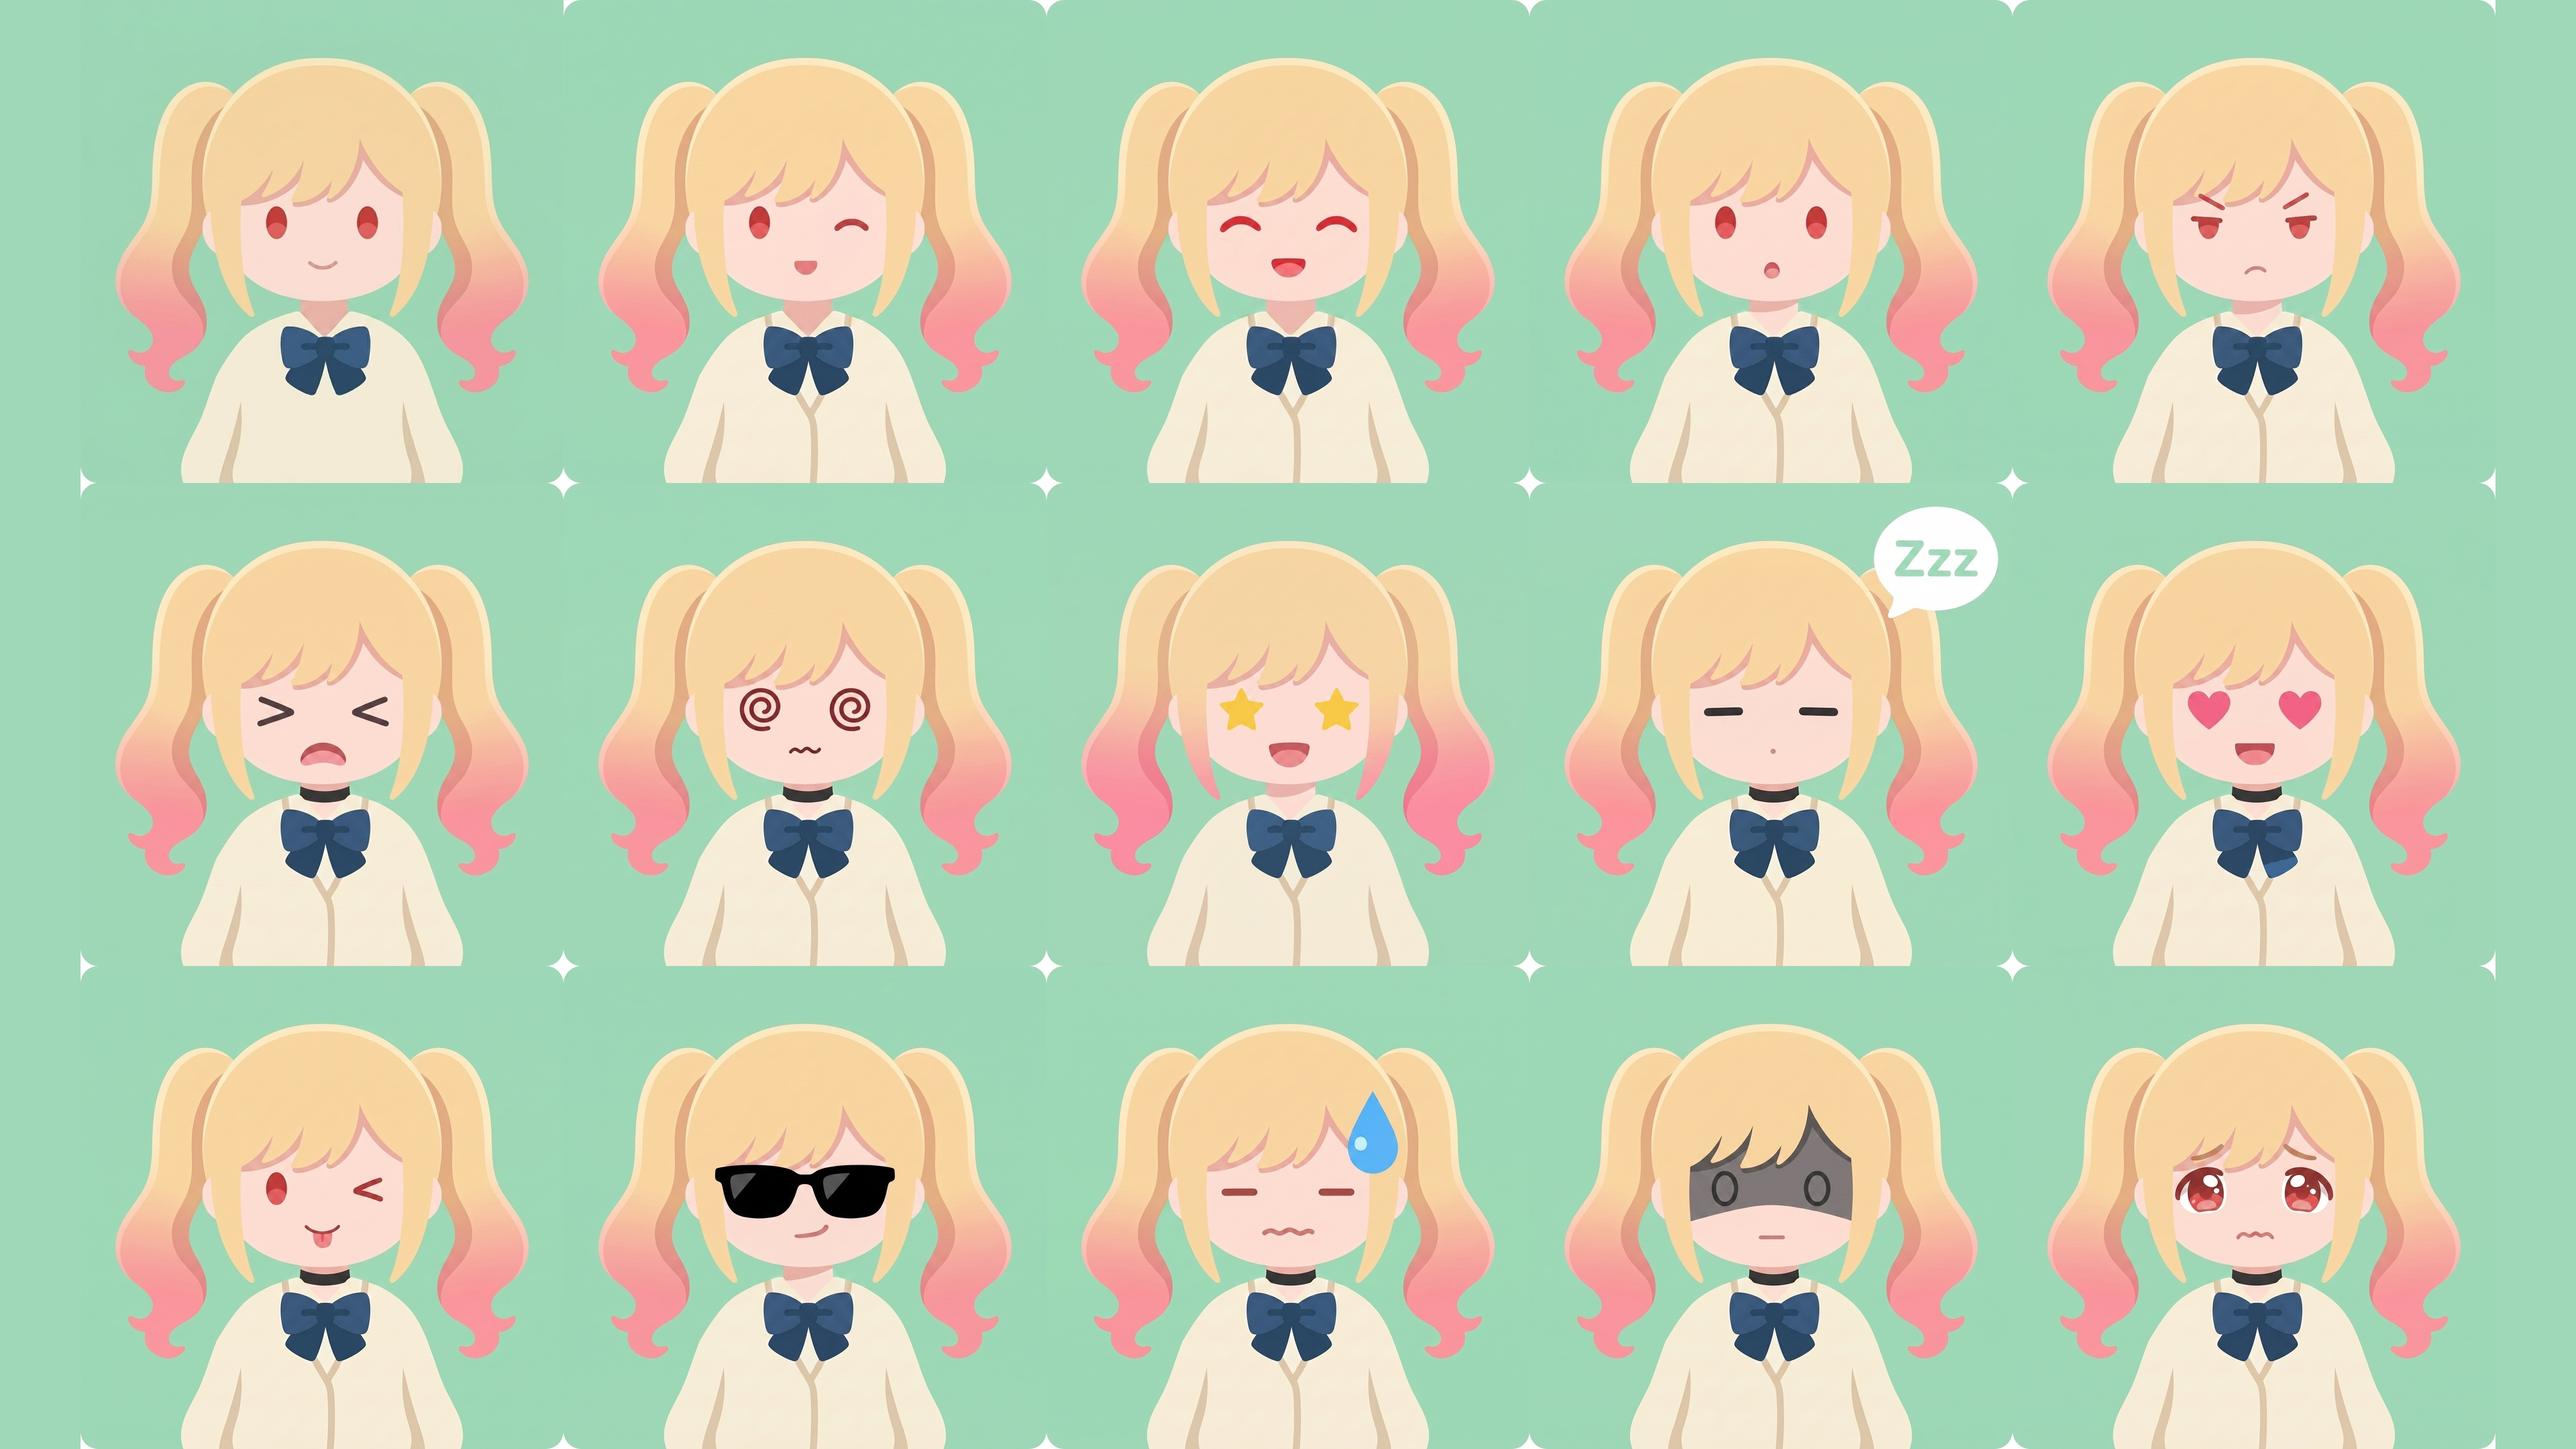
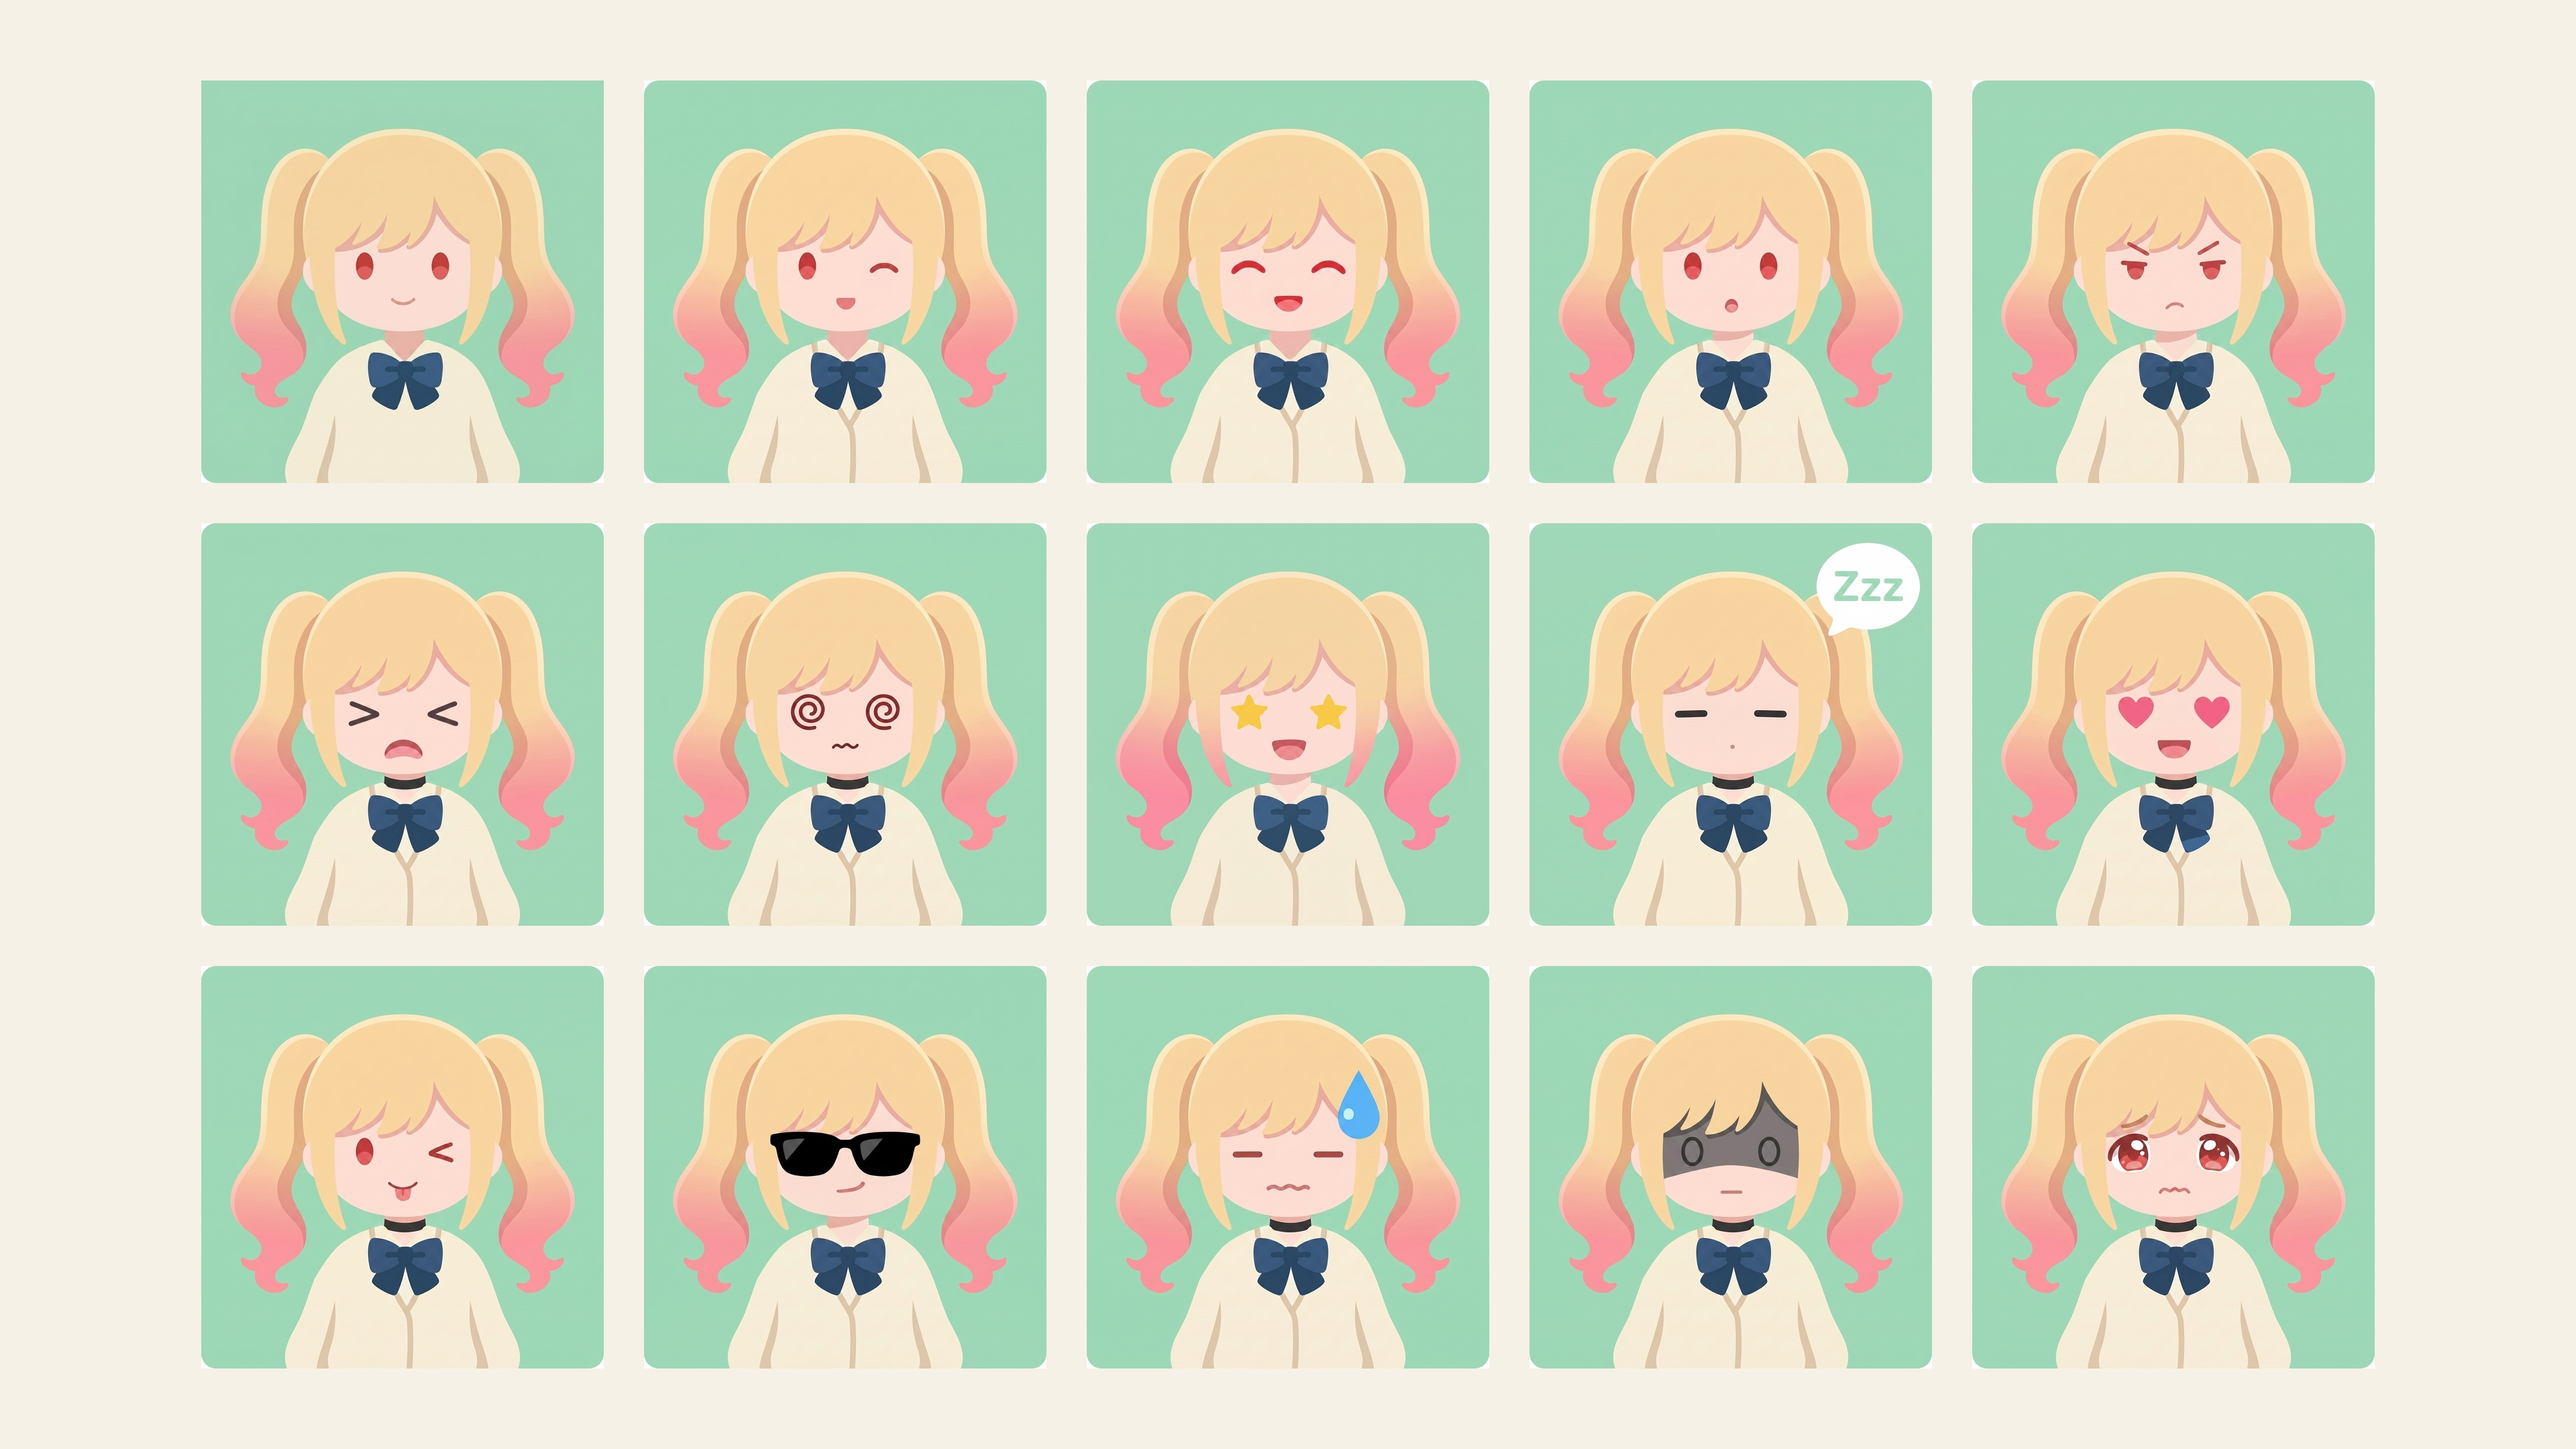
fix: add grid padding and brand cream background to wallpaper

diff --git a/generate_wallpaper.py b/generate_wallpaper.py
@@ -3,58 +3,59 @@ from PIL import Image
 
 def generate_wallpaper():
     assets_dir = "assets"
-    # 我们要拼接的 15 张表情图的文件名列表（按顺序）
     images_list = [
         "10_Base_Smile.jpg", "11_Base_Wink.jpg", "12_Base_Happy.jpg", "13_Base_Surprised.jpg", "14_Base_Angry.jpg",
         "15_Base_Crying.jpg", "16_Base_Dizzy.jpg", "17_Base_Starry.jpg", "18_Base_Sleepy.jpg", "19_Base_Love.jpg",
         "20_Base_Blep.jpg", "21_Base_Cool.jpg", "22_Base_Sweating.jpg", "23_Base_Shadow.jpg", "24_Base_Pleading.jpg"
     ]
     
-    # 检查图片是否都存在
     for img_name in images_list:
         img_path = os.path.join(assets_dir, img_name)
         if not os.path.exists(img_path):
             print(f"Error: {img_path} not found!")
             return
 
-    # 读取所有图片
     images = [Image.open(os.path.join(assets_dir, img_name)) for img_name in images_list]
     
-    # 获取原始单张图片的尺寸（假设全都是正方形且一样大）
-    base_w, base_h = images[0].size
-    
-    # 我们设定最终壁纸的高度为 4K 标准 (2160p)
+    # 设定最终壁纸的高度为 4K 标准
+    target_width = 3840
     target_height = 2160
-    target_width = 3840 # 16:9
     
-    # 5x3 网格，所以单张图片的尺寸应该是:
-    tile_size = target_height // 3 # 720
+    # 设定网格的间距 (Gap)
+    gap = 60
     
-    # 调整所有图片的尺寸
+    # 计算图片大小：(总高度 - 上下留白 - 2个垂直间距) / 3
+    # 假设上下留白 margin_y = 120
+    margin_y = 120
+    tile_size = (target_height - (2 * margin_y) - (2 * gap)) // 3 # (2160 - 240 - 120) // 3 = 600
+    
+    # 调整图片尺寸
     resized_images = [img.resize((tile_size, tile_size), Image.Resampling.LANCZOS) for img in images]
     
-    # 取第一张图的左上角像素点颜色作为背景色
-    bg_color = resized_images[0].getpixel((0, 0))
+    # 使用品牌色：暖米白 (Cardigan Cream) #F5F1E6 作为底色
+    # 这样每个图片就会像一张张独立的卡片/拍立得一样排列，不会出现边缘粘连的突兀感
+    bg_color = (245, 241, 230)
     
-    # 创建 16:9 的画布
+    # 创建 16:9 画布
     wallpaper = Image.new("RGB", (target_width, target_height), bg_color)
     
-    # 计算左侧的偏移量，让 5x3 网格完美居中
-    # 5 列的总宽度 = 5 * tile_size = 3600
-    # 左右留白 = (3840 - 3600) / 2 = 120
-    offset_x = (target_width - (5 * tile_size)) // 2
+    # 计算左侧偏移量以确保整体居中
+    # 5列图片宽度 + 4个水平间距
+    total_grid_width = (5 * tile_size) + (4 * gap)
+    offset_x = (target_width - total_grid_width) // 2
+    offset_y = margin_y
     
     # 拼接图片
     for index, img in enumerate(resized_images):
         row = index // 5
         col = index % 5
-        x = offset_x + col * tile_size
-        y = row * tile_size
+        x = offset_x + col * (tile_size + gap)
+        y = offset_y + row * (tile_size + gap)
         wallpaper.paste(img, (x, y))
         
     output_path = "Kigurumi_16x9_Wallpaper.jpg"
     wallpaper.save(output_path, quality=95)
-    print(f"Success! Wallpaper saved to {output_path}")
+    print(f"Success! Wallpaper with distinct grid saved to {output_path}")
 
 if __name__ == "__main__":
     generate_wallpaper()
